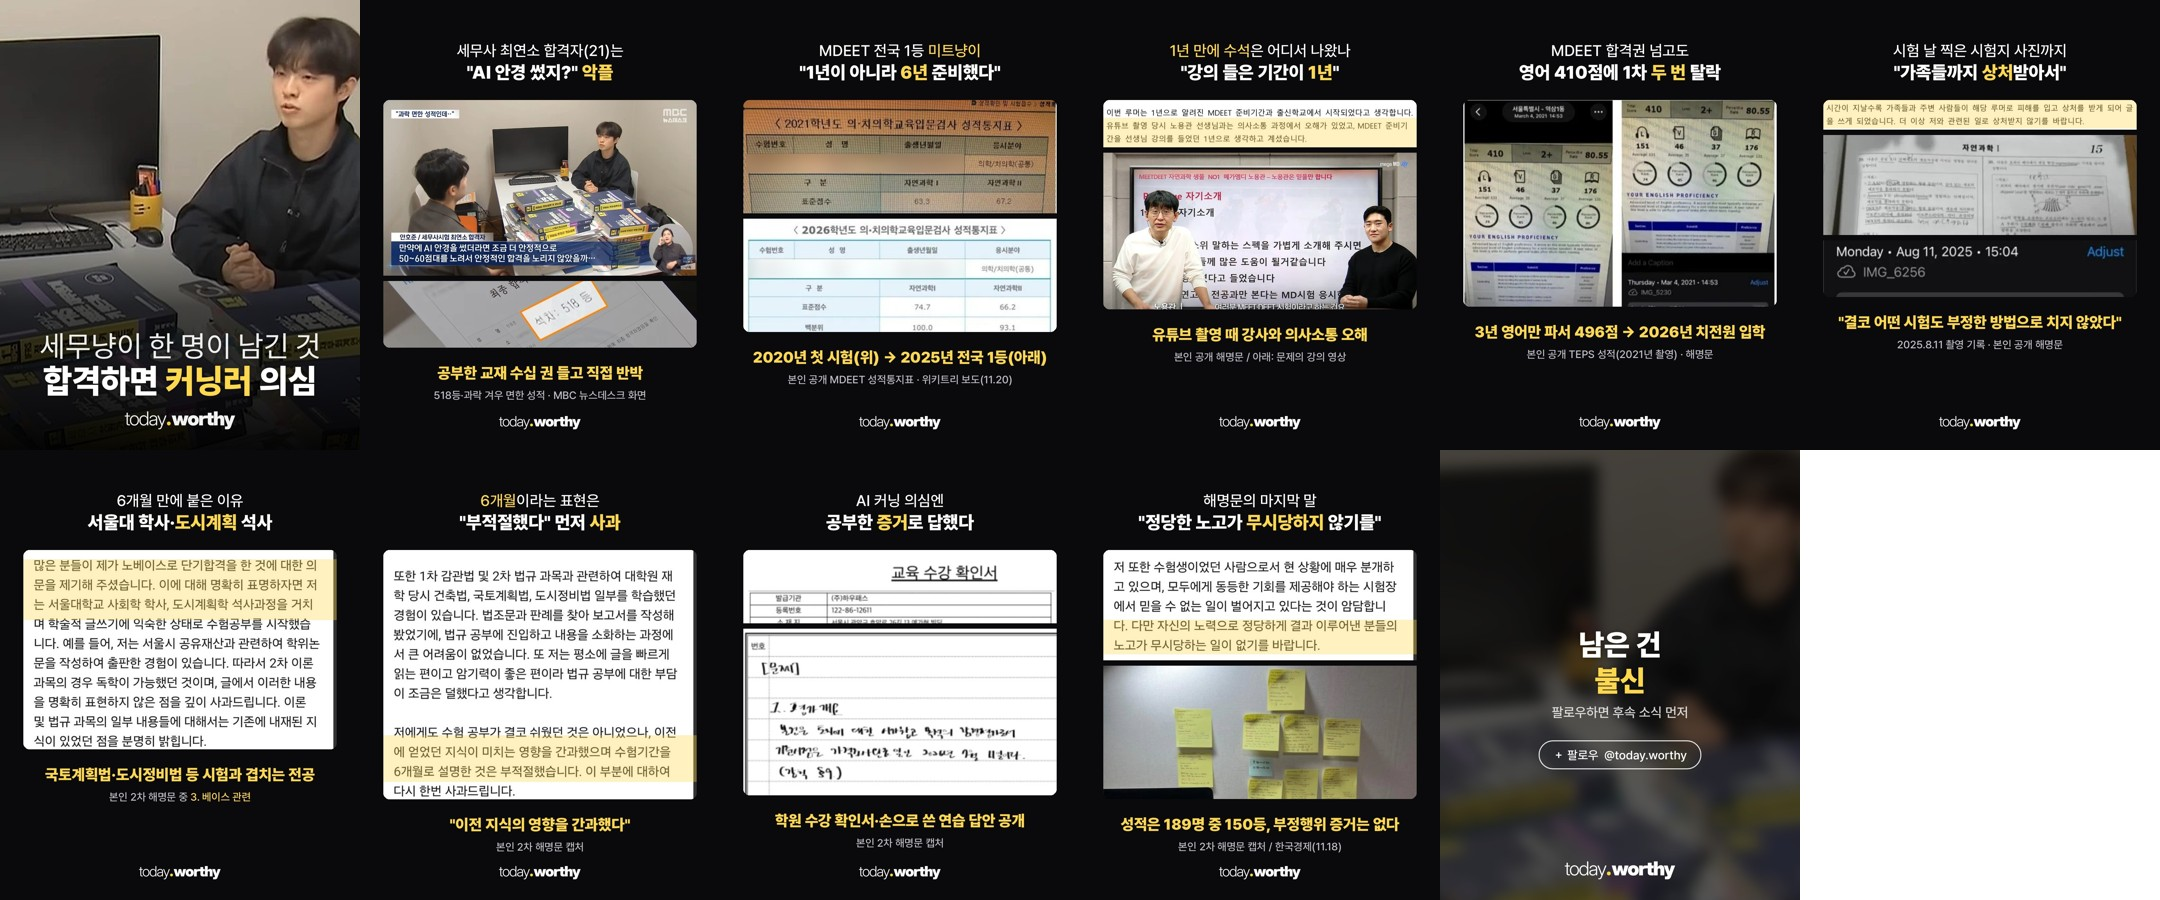
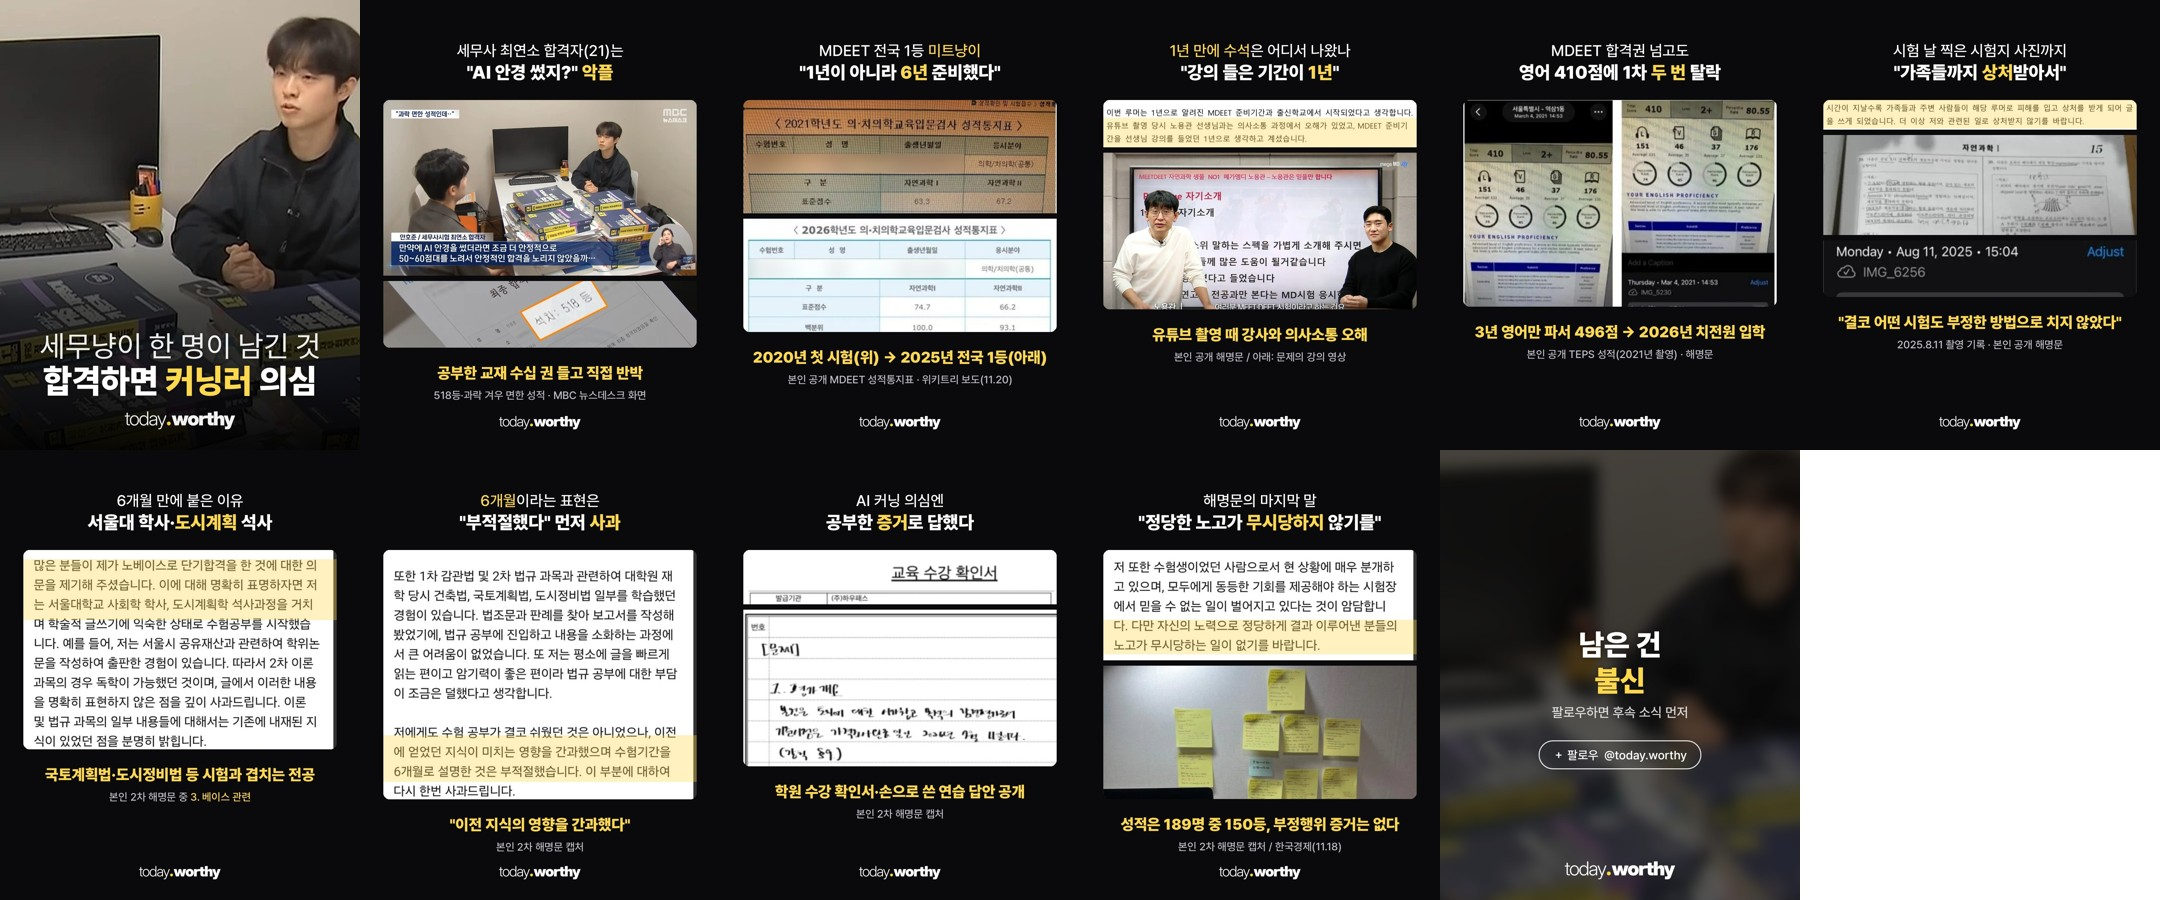
distrust: 9장 확인서 잘림 정리
Claude-Session: https://claude.ai/code/session_01FGsw5S4nGrZdCJo7qBU1wE

Changed region(s): [[0.3412, 0.6533, 0.4963, 0.9644]]

diff --git a/media/20261120-distrust/build_cards.py b/media/20261120-distrust/build_cards.py
@@ -103,7 +103,7 @@ frame(("'6개월'이라는 표현은", "\"부적절했다\" 먼저 '사과'"),
       "\"이전 지식의 영향을 '간과'했다\"", "본인 2차 해명문 캡처").save(O / "c09.jpg", quality=93)
 # 감평냥이 3: 공부 증거 공개
 frame(("AI 커닝 의심엔", "공부한 '증거'로 답했다"),
-      stack(cap("g2.jpg", (60, 1250, 880, 1720), blur=[(240, 1590, 360, 1660)], maxh=220), cap("g4.jpg", (90, 250, 840, 1000), maxh=500)),
+      stack(cap("g2.jpg", (60, 1250, 880, 1392), maxh=220), cap("g4.jpg", (90, 250, 840, 1000), maxh=470)),
       "학원 수강 확인서·손으로 쓴 연습 답안 '공개'", "본인 2차 해명문 캡처").save(O / "c10.jpg", quality=93)
 # 감평냥이 4: 마지막 말 + 공부 사진
 frame(("해명문의 마지막 말", "\"정당한 노고가 '무시당하지' 않기를\""),
